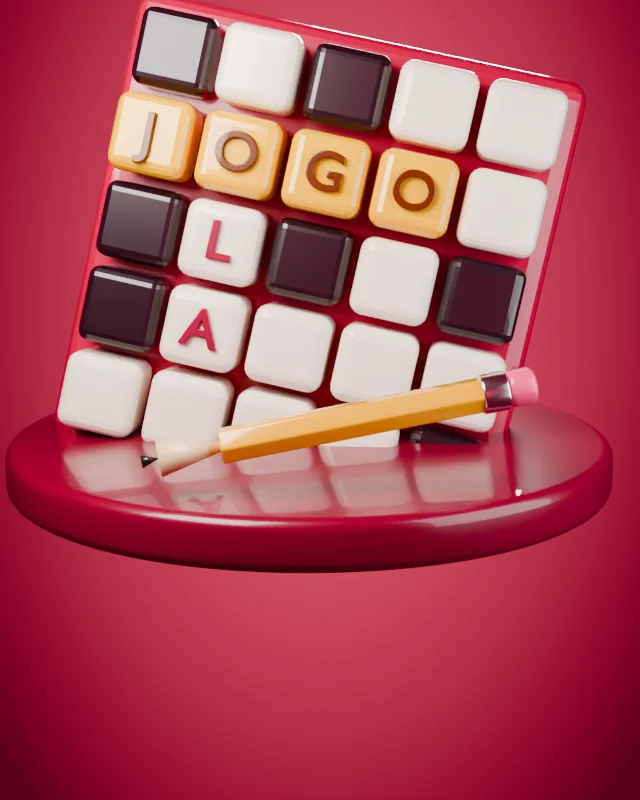
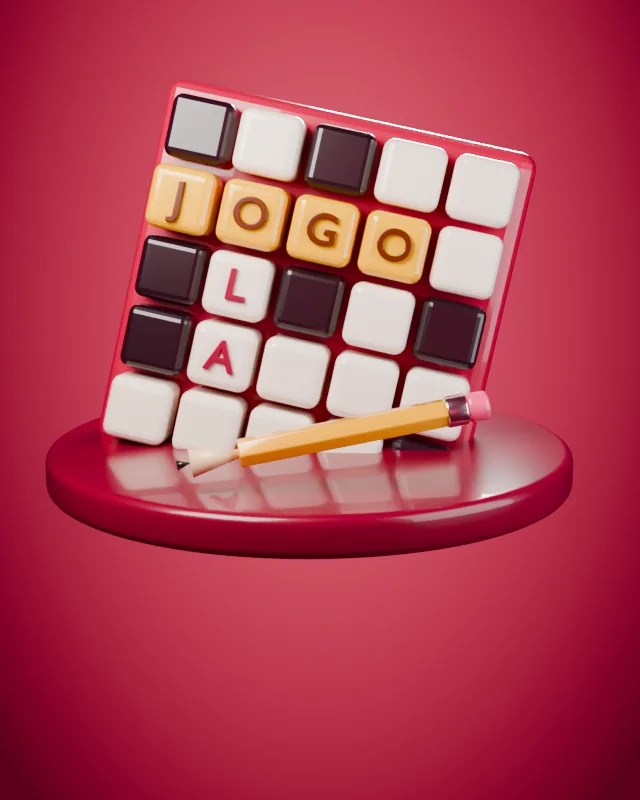
All 25 covers wired, splash fan tuned
Claude-Session: https://claude.ai/code/session_01MHknEQHwoRP7PDrNv3vHVE

diff --git a/js/core/art.js b/js/core/art.js
@@ -89,7 +89,7 @@ const ART = {
 
 // 3D covers (assets/covers/<id>.webp, rendered by tools/covers). Games without one
 // fall back to the drawn illustrations above.
-const COVERS = new Set(['soccer', 'squad', 'mapquiz', 'flags', 'polyglot', 'busjam', 'waldo', 'findit', 'wordsearch', 'hero', 'million', 'towers', 'naval', 'farm', 'pingpong']);
+const COVERS = new Set(['soccer', 'squad', 'mapquiz', 'flags', 'polyglot', 'busjam', 'waldo', 'findit', 'wordsearch', 'hero', 'million', 'towers', 'naval', 'farm', 'pingpong', 'blocks', 'water', 'snake', 'numbers', 'solitaire', 'checkers', 'domino', 'sudoku', 'g2048', 'crossword']);
 export const hasCover = (id) => COVERS.has(id);
 export const coverUrl = (id) => new URL(`../../assets/covers/${id}.webp`, import.meta.url).href;
 

diff --git a/css/app.css b/css/app.css
@@ -2338,3 +2338,15 @@ img {
 .profile-card + .section-head {
   margin-top: 2px;
 }
+.splash-art {
+  max-height: 46vh;
+  min-height: 260px;
+}
+.sf-card {
+  width: 40%;
+  max-width: 176px;
+}
+.sf-card {
+  width: 36%;
+  transform: translateX(calc(var(--k) * 56%)) translateY(calc(var(--d) * var(--d) * 6%)) rotate(calc(var(--k) * 8deg)) scale(calc(1 - var(--d) * 0.09));
+}
